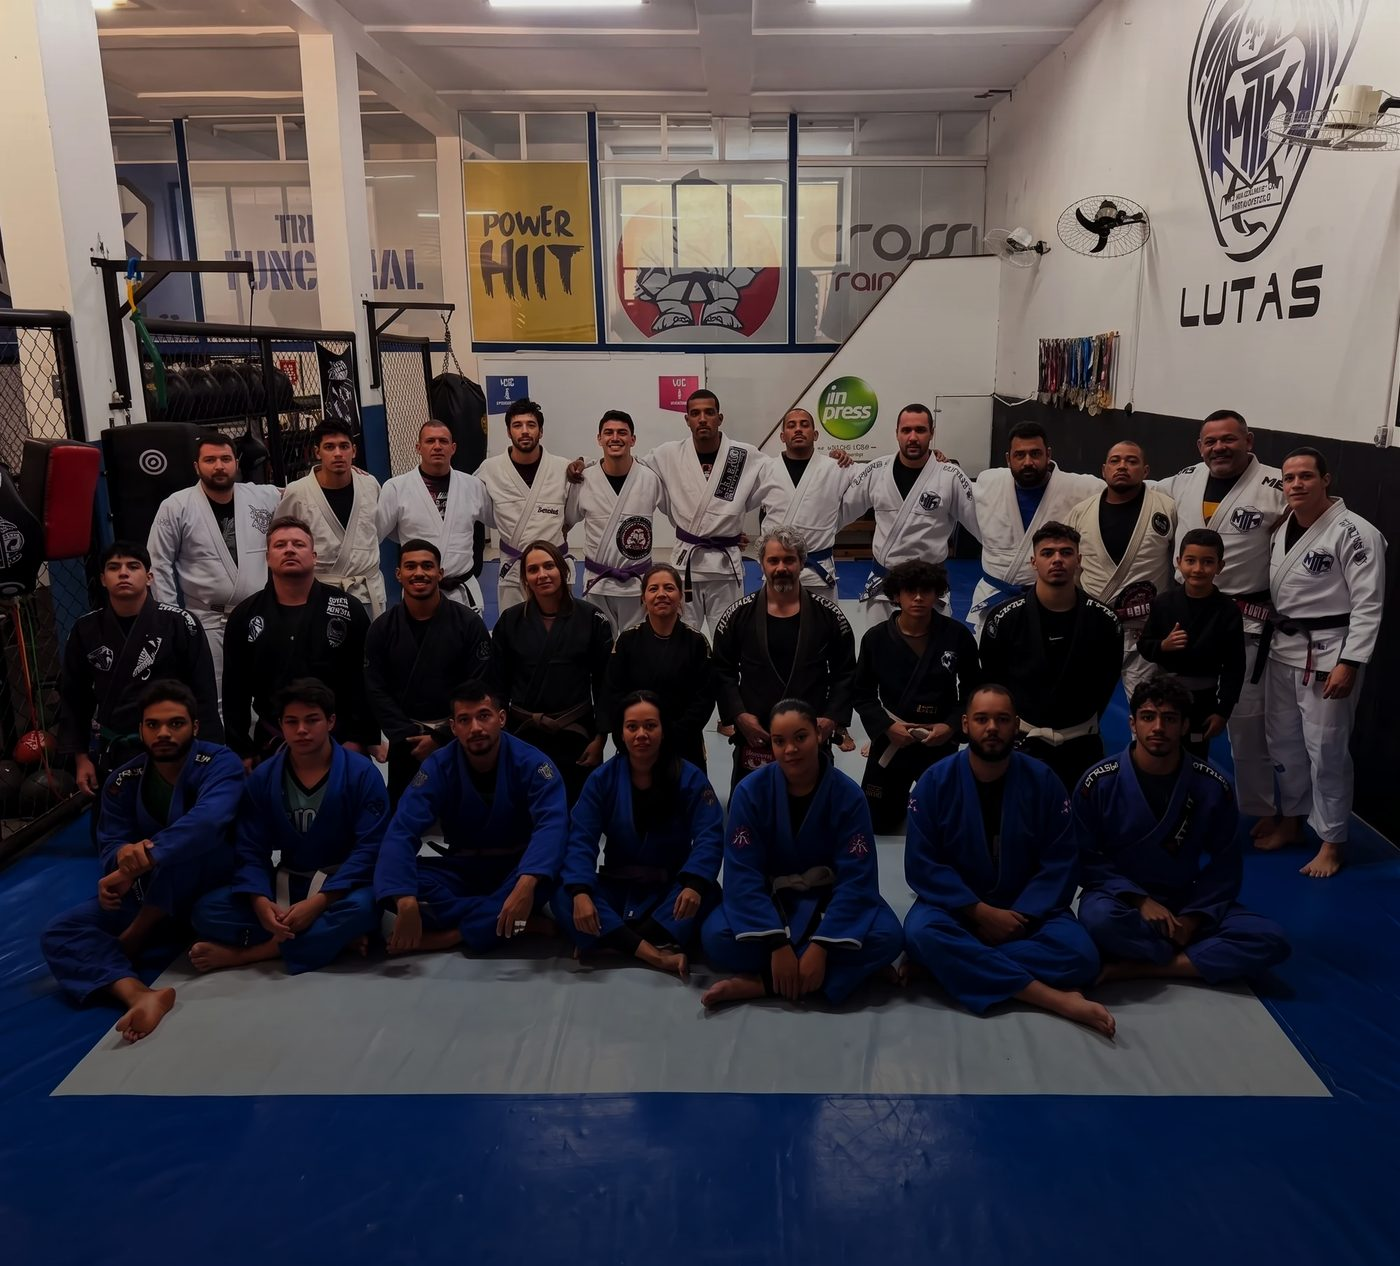
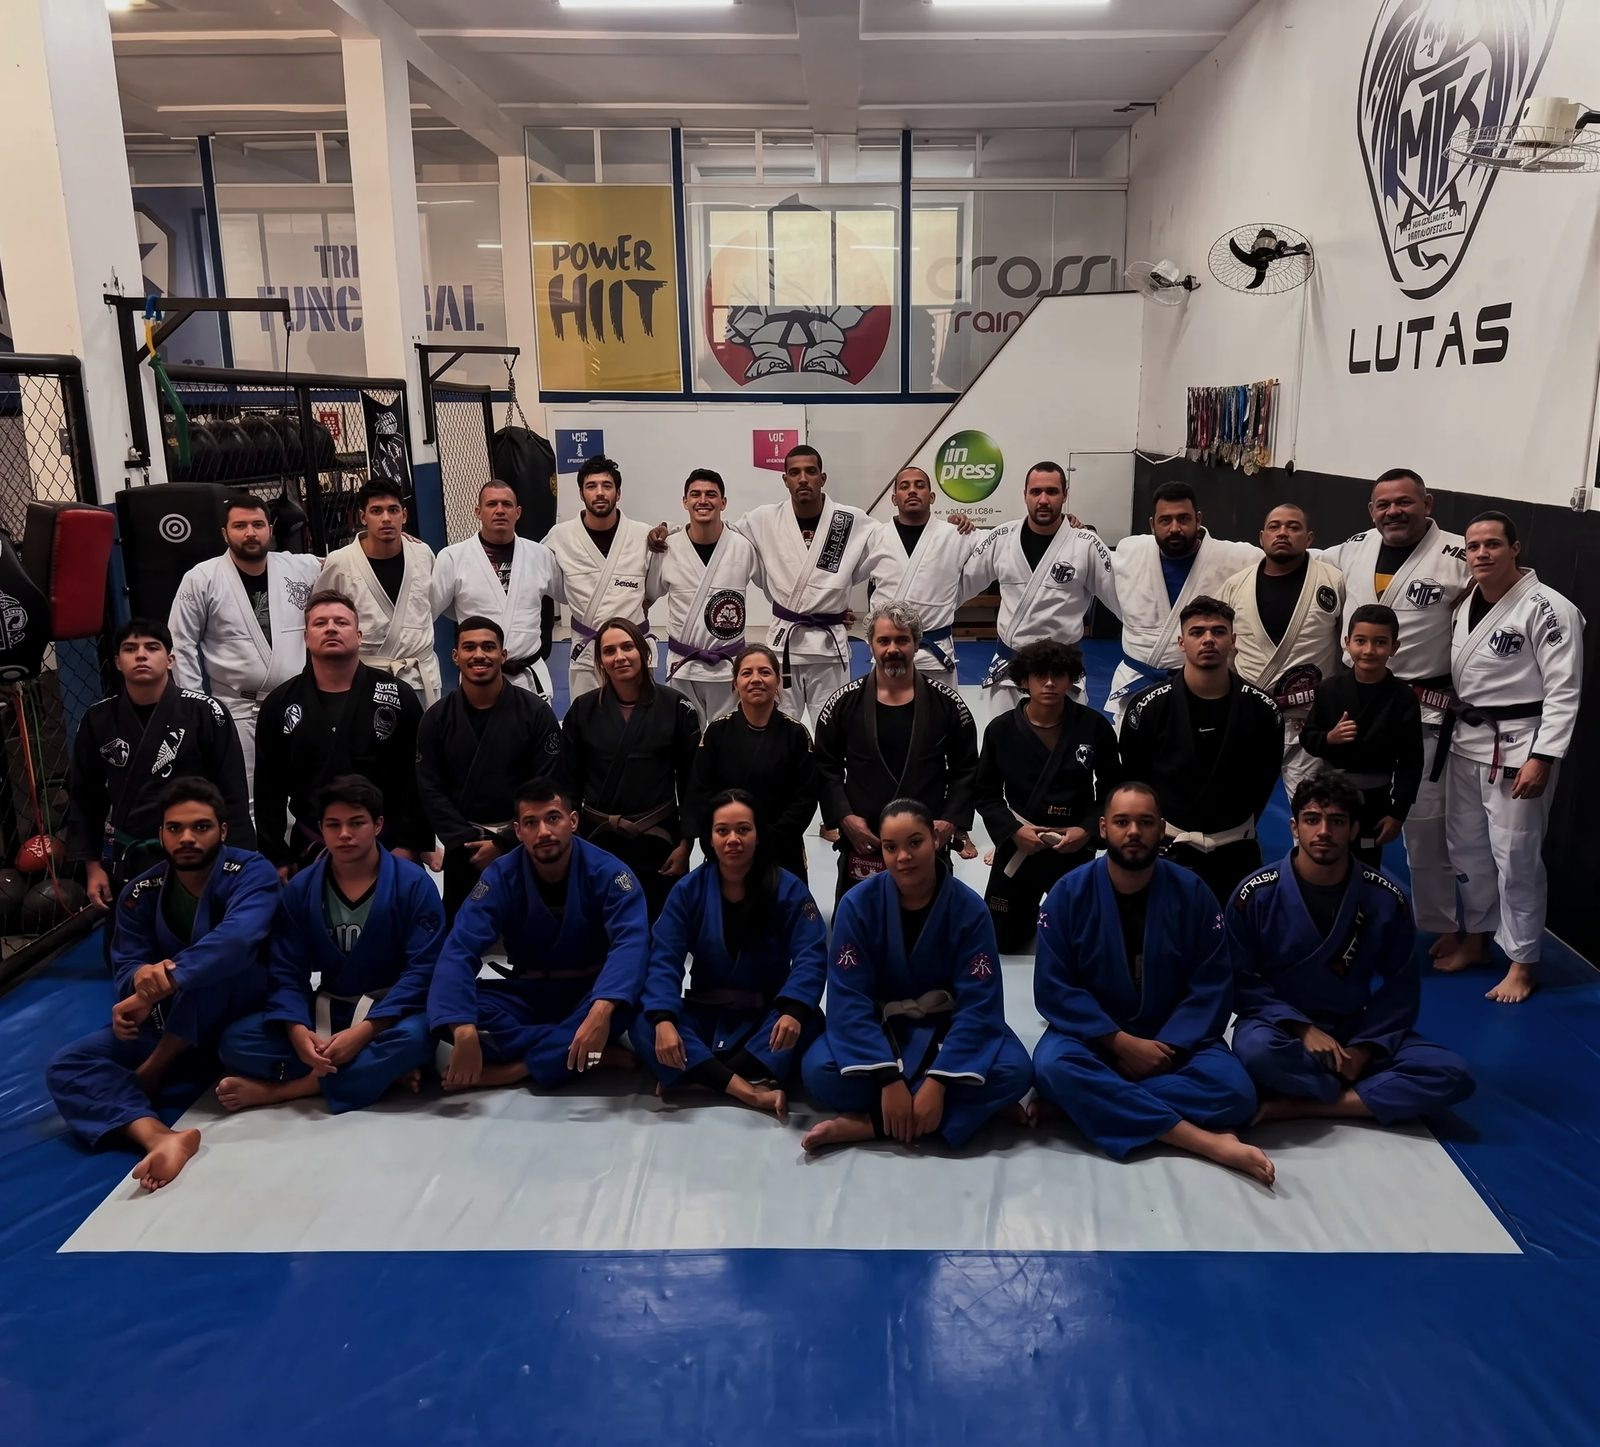
Coloca foto de fundo nos tres cards de prova social
A foto agora e fundo do proprio card, nao um <img>. Os dois caminhos com
<img> falham, cada um de um jeito, e os dois foram medidos: dentro do
<summary> a foto so cobre o summary, porque summary e position:relative e
vira o bloco de referencia do inset:0, entao com o card aberto ela parava
no meio da altura; fora do <summary> o <details> nao renderiza filho nenhum
enquanto esta fechado, altura zero. Fundo do elemento resolve os dois
estados.

Armadilha que custou uma rodada: url() dentro de variavel CSS e resolvido
relativo a folha de estilo que USA a variavel, nao ao HTML que a declarou.
O caminho relativo virava assets/css/assets/img/... e dava 404 em silencio.
Por isso os --foto usam caminho absoluto.

Cada card declara o proprio --foto-veu, e o padrao e zero: antes a camada
escura era pintada em todos os cards, inclusive nos sem foto.

As tres imagens pediram tratamentos diferentes, e isso corrige um
entendimento errado que estava no manual. Normalizar a luminancia para 87,5
nunca foi o objetivo, era um atalho para o veu unico funcionar; o objetivo
e o contraste do texto. A foto da MTK tem media 94 e leva veu .38. A da
Gracie Barra ja nasce escura, media 43,6: normalizar clarearia 2x e lavaria
a imagem, entao ela fica como veio e leva veu .18. A Barra Fit nao mandou
foto, so o logotipo sobre branco, 96% da area branca: virou marca d'agua,
com o branco recortado pelo canal mais escuro de cada pixel e o apagamento
no alfa do PNG.
[…]

diff --git a/index.html b/index.html
@@ -205,9 +205,9 @@
      em vez de usar a que ele guardou. Sempre que o CSS ou o JS mudar,
      esse número sobe.
      ───────────────────────────────────────────────────── -->
-<link rel="stylesheet" href="assets/css/00-config.css?v=58">
-<link rel="stylesheet" href="assets/css/01-base.css?v=58">
-<link rel="stylesheet" href="assets/css/02-blocos.css?v=58">
+<link rel="stylesheet" href="assets/css/00-config.css?v=63">
+<link rel="stylesheet" href="assets/css/01-base.css?v=63">
+<link rel="stylesheet" href="assets/css/02-blocos.css?v=63">
 </head>
 <body>
 
@@ -387,12 +387,10 @@
            no clique. Funciona com teclado e sem uma linha de JS.
            Os dois canais ficam SEPARADOS lá dentro: Google Ads e Meta medem
            coisas diferentes e os números não se somam. -->
-      <details class="caso glass" name="casos">
+      <!-- --foto vira o fundo do card inteiro. Ver a explicação em
+           02-blocos.css: com <img> a foto não cobre os dois estados. -->
+      <details class="caso glass" name="casos" style="--foto:url('/assets/img/clientes/mtk-foto.jpg');--foto-veu:.38">
         <summary>
-          <!-- A foto mora DENTRO do summary de proposito: details esconde todo
-               filho que nao esteja aqui enquanto o card esta fechado. Ela e
-               ambientacao, nao informacao, por isso alt vazio e aria-hidden. -->
-          <img class="caso-foto" src="assets/img/clientes/mtk-foto.jpg" alt="" aria-hidden="true" width="1400" height="1266" loading="lazy">
           <div class="caso-cabeca">
             <img class="caso-logo quadrada" src="assets/img/clientes/MTK Jiu Jitsu.svg" alt="CT MTK" width="512" height="512" loading="lazy">
             <span class="caso-abrir" aria-hidden="true"></span>
@@ -434,7 +432,11 @@
         </div>
       </details>
 
-      <details class="caso glass" name="casos">
+      <!-- Marca d'água, não foto: o arquivo que temos da Barra Fit é o
+           logotipo sobre branco, 96% da área é branca. Sem --foto-veu porque
+           o apagamento já está no alfa do PNG; um véu liso escureceria também
+           a área vazia do card. -->
+      <details class="caso glass" name="casos" style="--foto:url('/assets/img/clientes/barrafit-marca.png')">
         <summary>
           <div class="caso-cabeca">
             <img class="caso-logo quadrada" src="assets/img/clientes/Logo Barra Fit.svg" alt="Barra Fit Sudoeste" width="512" height="512" loading="lazy">
@@ -472,7 +474,9 @@
         </div>
       </details>
 
-      <details class="caso glass" name="casos">
+      <!-- Véu leve de propósito: esta foto já nasce escura (média 43 contra
+           94 da MTK), então não precisa do mesmo tanto de véu. Ver gb.py. -->
+      <details class="caso glass" name="casos" style="--foto:url('/assets/img/clientes/gracie-barra-foto.jpg');--foto-veu:.18">
         <summary>
           <div class="caso-cabeca">
             <img class="caso-logo quadrada" src="assets/img/clientes/Logo GB sudoeste.svg" alt="Gracie Barra Sudoeste" width="512" height="512" loading="lazy">
@@ -679,6 +683,6 @@
   <span>Falar no WhatsApp</span>
 </a>
 
-<script src="assets/js/config.js?v=58"></script>
+<script src="assets/js/config.js?v=63"></script>
 </body>
 </html>

diff --git a/assets/css/02-blocos.css b/assets/css/02-blocos.css
@@ -314,6 +314,19 @@
 .casos{display:grid;grid-template-columns:repeat(3,1fr);gap:20px;align-items:stretch}
 
 .caso{padding:0;overflow:hidden;position:relative;
+  /* Tres camadas de fundo, de cima para baixo: o vidro do card, um véu liso
+     que apaga a foto, e a foto, que vem de --foto no HTML. Cards sem --foto
+     caem no "none" e ficam exatamente como antes. */
+  /* Zero por padrão: card sem foto não deve ganhar camada escura nenhuma.
+     Quem tem foto declara o próprio valor junto do --foto, no HTML. */
+  --foto-veu:0;
+  background-image:
+    var(--glass-bg),
+    linear-gradient(rgba(var(--ink-rgb),var(--foto-veu)),rgba(var(--ink-rgb),var(--foto-veu))),
+    var(--foto,none);
+  background-size:auto,auto,cover;
+  background-position:center,center,center;
+  background-repeat:no-repeat,no-repeat,no-repeat;
   border-color:rgba(var(--ouro-rgb),.34);
   transition:transform .3s cubic-bezier(.2,.7,.3,1),box-shadow .3s ease,border-color .3s ease}
 /* Aberto, sobe para o topo da grade e ocupa a linha inteira. O order:-1 é o
@@ -326,16 +339,18 @@
              0 30px 70px -26px rgba(var(--ouro-rgb),.60)}
 .caso[open]:hover{transform:none}
 /* ---- foto do cliente ao fundo ----
-   São quatro camadas empilhadas, e a ordem é o que faz o texto continuar
-   legível: foto (0), véu escuro (1), brilho quente (2), conteúdo (3).
-   Sem z-index explícito, o ::after do véu pintaria por cima do texto, porque
-   pseudo-elemento posicionado ganha de conteúdo em fluxo normal. */
-.caso-foto{position:absolute;inset:0;width:100%;height:100%;object-fit:cover;
-  z-index:0;pointer-events:none;user-select:none;
-  /* a foto entra rebaixada: ela é ambientação, não informação */
-  opacity:.55;filter:grayscale(.25) brightness(.95);
-  transition:opacity .35s ease,filter .35s ease}
-.caso:hover .caso-foto,.caso[open] .caso-foto{opacity:.68;filter:grayscale(.12) brightness(1)}
+   A foto é fundo do PRÓPRIO card, não um <img>. Os dois caminhos com <img>
+   foram testados e falham, cada um de um jeito:
+   · dentro do <summary>, ela só cobre o summary, porque summary é
+     position:relative e vira o bloco de referência do inset:0 — com o card
+     aberto a foto parava no meio da altura;
+   · fora do <summary>, o <details> não renderiza filho nenhum enquanto está
+     fechado (medido: altura 0), então a foto sumia do card fechado.
+   Fundo do elemento resolve os dois estados de uma vez.
+
+   Sobre ela ainda vêm o ::after (véu em degradê) e o ::before (brilho).
+   A ordem importa: sem z-index explícito o pseudo-elemento pintaria por
+   cima do texto, porque posicionado ganha de conteúdo em fluxo normal. */
 
 /* O véu. Mais ddenso embaixo, onde o texto se acumula, e mais leve em cima,
    onde só existe o logotipo. É o que permite ler número sobre imagem. */
